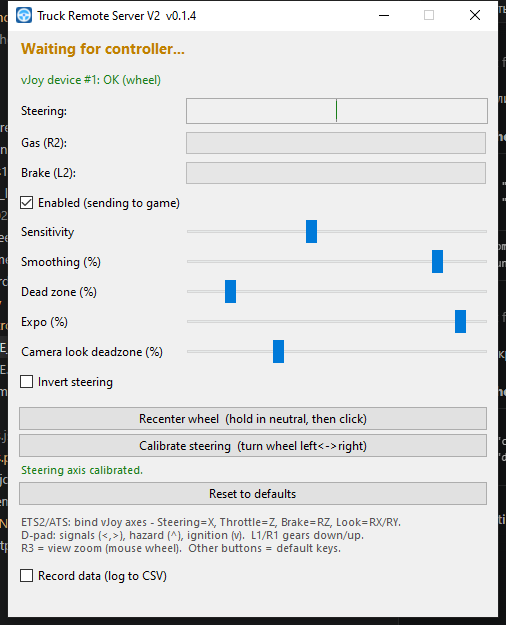
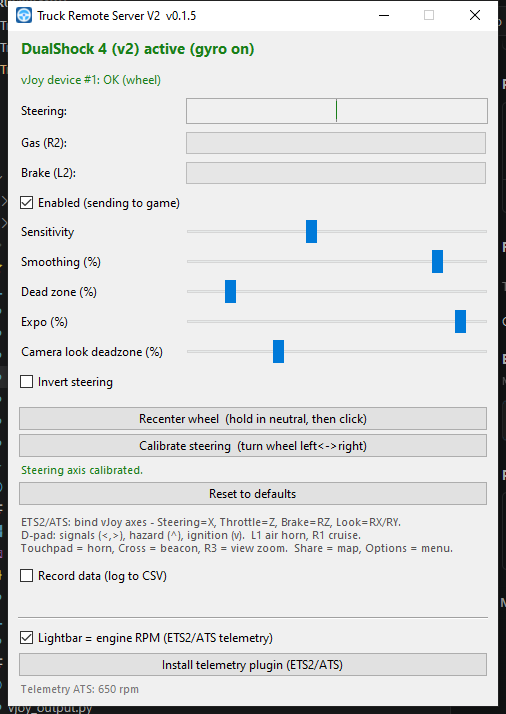
0.1.6: button remap, DS4 lightbar, surgical LED writes
- Reworked the keyboard mapping (no gear binding, no duplicates): touchpad press
  = horn, Cross = beacon, L1 = air horn, R1 = cruise, Share = map (M),
  Options = menu; D-pad signals/hazard/ignition; PS unmapped.
- DualShock 4 lightbar now follows engine RPM too (USB 0x05 / BT 0x11 + CRC32),
  alongside DualSense; UI label made generic.
- Lightbar output is now surgical (changes only the LED, leaves rumble/haptics
  untouched) and telemetry has a short hold so brief dropouts don't flash white.
  Known issue: lightbar can still blink to default on bumps while the game
  rumbles the pad (to be addressed later).
- Refreshed README (en/ru) + new screenshot.

diff --git a/dualsense_led.py b/dualsense_led.py
@@ -1,37 +1,71 @@
-"""DualSense lightbar control via a HID output report.
+"""DualSense / DualShock 4 lightbar control via a HID output report.
 
 The lightbar RGB is set by an output report sent on the same HID handle we read
-from. Over USB it's report 0x02; over Bluetooth it's report 0x31 with a trailing
-CRC32 (seeded with the 0xA2 BT output-report tag). Layout follows the common
-DualSense output report (as used by pydualsense / DS4Windows).
+from. Bluetooth reports carry a trailing CRC32 (seeded with the 0xA2 BT
+output-report tag). Layouts follow the common reports used by pydualsense /
+DS4Windows.
+
+  DualSense : USB 0x02 (RGB @ 45..47)   BT 0x31 (RGB @ 46..48, +CRC)
+  DualShock4: USB 0x05 (RGB @ 6..8)     BT 0x11 (RGB @ 8..10,  +CRC)
 """
 
 import struct
 import zlib
 
-_FLAG0 = 0xFF          # enable rumble/trigger fields (harmless, kept 0 below)
-_FLAG1 = 0xF7          # bit 0x04 = allow lightbar color change
+# Surgical flags: change ONLY the lightbar, leave rumble/haptics untouched so we
+# don't fight the game's force feedback (which otherwise made the lightbar blink
+# back to default on bumps).
+_DS_FLAG0 = 0x00       # DualSense: don't touch rumble/triggers
+_DS_FLAG1 = 0x04       # DualSense: 0x04 = allow lightbar color
+_DS4_FLAGS = 0x06      # DS4: 0x02 lightbar color | 0x04 flash (no rumble bit 0x01)
 
 
-def build_report(bt, r, g, b):
+def build_report(kind, bt, r, g, b):
+    if kind == "ds4":
+        return _ds4_report(bt, r, g, b)
+    return _dualsense_report(bt, r, g, b)
+
+
+def _crc_tail(buf):
+    crc = zlib.crc32(b"\xA2" + bytes(buf[0:74])) & 0xFFFFFFFF
+    struct.pack_into("<I", buf, 74, crc)
+
+
+def _dualsense_report(bt, r, g, b):
     r &= 0xFF; g &= 0xFF; b &= 0xFF
     if bt:
         buf = bytearray(78)
         buf[0] = 0x31
         buf[1] = 0x02          # sequence/tag
-        buf[2] = _FLAG0
-        buf[3] = _FLAG1
+        buf[2] = _DS_FLAG0
+        buf[3] = _DS_FLAG1
         buf[46] = r; buf[47] = g; buf[48] = b
-        crc = zlib.crc32(b"\xA2" + bytes(buf[0:74])) & 0xFFFFFFFF
-        struct.pack_into("<I", buf, 74, crc)
+        _crc_tail(buf)
         return bytes(buf)
-    else:
-        buf = bytearray(48)
-        buf[0] = 0x02
-        buf[1] = _FLAG0
-        buf[2] = _FLAG1
-        buf[45] = r; buf[46] = g; buf[47] = b
+    buf = bytearray(48)
+    buf[0] = 0x02
+    buf[1] = _DS_FLAG0
+    buf[2] = _DS_FLAG1
+    buf[45] = r; buf[46] = g; buf[47] = b
+    return bytes(buf)
+
+
+def _ds4_report(bt, r, g, b):
+    r &= 0xFF; g &= 0xFF; b &= 0xFF
+    if bt:
+        buf = bytearray(78)
+        buf[0] = 0x11
+        buf[1] = 0xC0          # HID + CRC, poll rate 0
+        buf[2] = 0xA0
+        buf[3] = _DS4_FLAGS
+        buf[8] = r; buf[9] = g; buf[10] = b
+        _crc_tail(buf)
         return bytes(buf)
+    buf = bytearray(32)
+    buf[0] = 0x05
+    buf[1] = _DS4_FLAGS
+    buf[6] = r; buf[7] = g; buf[8] = b
+    return bytes(buf)
 
 
 def rpm_to_rgb(rpm, rpm_max):

diff --git a/main.py b/main.py
@@ -13,7 +13,7 @@ from datetime import datetime
 import tkinter as tk
 from tkinter import ttk
 
-__version__ = "0.1.5"
+__version__ = "0.1.6"
 
 from settings import Settings
 from vjoy_output import VJoyController
@@ -24,8 +24,8 @@ import telemetry as telem
 import dualsense_led
 
 BUTTON_REF = ("ETS2/ATS: bind vJoy axes - Steering=X, Throttle=Z, Brake=RZ, Look=RX/RY.\n"
-              "D-pad: signals (<,>), hazard (^), ignition (v).  L1/R1 gears down/up.\n"
-              "R3 = view zoom (mouse wheel).  Other buttons = default keys.")
+              "D-pad: signals (<,>), hazard (^), ignition (v).  L1 air horn, R1 cruise.\n"
+              "Touchpad = horn, Cross = beacon, R3 = view zoom.  Share = map, Options = menu.")
 
 
 def resource_path(name):
@@ -51,6 +51,8 @@ class App:
         self.manager = GamepadManager(on_state=self._on_state, on_status=self._on_status)
         self.telemetry = telem.Telemetry()
         self._tele_text = ""
+        self._last_rpm_rgb = None
+        self._last_active_t = 0.0
 
         self._build_ui()
         self.manager.start()
@@ -165,7 +167,7 @@ class App:
         ttk.Separator(p, orient="horizontal").grid(row=19, column=0, columnspan=2,
                                                    sticky="we", padx=10, pady=4)
         self.var_led = tk.BooleanVar(value=self.settings.led_rpm_enabled)
-        ttk.Checkbutton(p, text="DualSense lightbar = engine RPM (ETS2/ATS telemetry)",
+        ttk.Checkbutton(p, text="Lightbar = engine RPM (ETS2/ATS telemetry)",
                         variable=self.var_led, command=self._on_led).grid(
             row=20, column=0, columnspan=2, sticky="w", **pad)
         ttk.Button(p, text="Install telemetry plugin (ETS2/ATS)",
@@ -218,12 +220,18 @@ class App:
         if not self.settings.led_rpm_enabled:
             self._tele_text = ""
             return
+        now = time.perf_counter()
         t = self.telemetry.read()
         if t and t["active"]:
-            self.manager.set_led(dualsense_led.rpm_to_rgb(t["rpm"], t["rpm_max"]))
+            rgb = dualsense_led.rpm_to_rgb(t["rpm"], t["rpm_max"])
+            self._last_rpm_rgb = rgb
+            self._last_active_t = now
+            self.manager.set_led(rgb)
             self._tele_text = "Telemetry %s: %d rpm" % (t["game"], int(t["rpm"]))
+        elif self._last_rpm_rgb is not None and (now - self._last_active_t) < 2.0:
+            self.manager.set_led(self._last_rpm_rgb)   # hold through brief dropouts
         else:
-            self.manager.set_led((255, 255, 255))   # white standby until game seen
+            self.manager.set_led((255, 255, 255))      # white standby until game seen
             self._tele_text = "Telemetry: waiting for game..."
 
     def _on_reset_defaults(self):

diff --git a/pc_controller.py b/pc_controller.py
@@ -10,18 +10,17 @@ import keyboard_emu as kb
 # slot -> action. ("key", <name>) sends a keyboard key; ("mouse", "middle")
 # clicks the middle mouse button (view zoom).
 BUTTON_ACTIONS = {
-    "cross": ("key", "H"),        # horn
+    "cross": ("key", "O"),        # beacon
     "circle": ("key", "K"),       # high beam
     "square": ("key", "Space"),   # parking / hand brake
     "triangle": ("key", "L"),     # lights cycle
-    "l1": ("key", "G"),           # gear down  (manual shift)
-    "r1": ("key", "R"),           # gear up    (manual shift)
+    "l1": ("key", "N"),           # air horn
+    "r1": ("key", "C"),           # cruise control
     "l3": ("key", "P"),           # wipers
     "r3": ("mouse", "middle"),    # view zoom (like clicking the mouse wheel)
-    "options": ("key", "C"),      # cruise control
-    "share": ("key", "N"),        # air horn
-    "ps": ("key", "Esc"),         # menu
-    "touchpad": ("key", "T"),     # attach/detach trailer
+    "options": ("key", "Esc"),    # game menu
+    "share": ("key", "M"),        # map
+    "touchpad": ("key", "H"),     # main horn (press the touchpad to honk)
     "dpad_left": ("key", "LBracket"),   # left turn signal  ([)
     "dpad_right": ("key", "RBracket"),  # right turn signal (])
     "dpad_up": ("key", "F"),          # hazard lights
@@ -29,7 +28,7 @@ BUTTON_ACTIONS = {
 }
 
 _PLAIN = ("cross", "circle", "square", "triangle", "l1", "r1",
-          "l3", "r3", "options", "share", "ps", "touchpad")
+          "l3", "r3", "options", "share", "touchpad")
 
 
 def _dpad_dirs(dpad):

diff --git a/hid_gamepad.py b/hid_gamepad.py
@@ -260,8 +260,8 @@ class GamepadManager:
                     continue
                 if not self.has_motion:
                     self._status("{} active (gyro on)".format(self.name), True, True)
-                if self.kind == "dualsense":
-                    self.bt = (data[0] == 0x31)
+                if self.kind in ("dualsense", "ds4"):
+                    self.bt = data[0] in (0x31, 0x11)   # DualSense/DS4 BT report
                     self._apply_led(dev)
                 if self.on_state:
                     self.on_state(st)
@@ -291,7 +291,7 @@ class GamepadManager:
             return
         try:
             import dualsense_led
-            report = bytearray(dualsense_led.build_report(self.bt, rgb[0], rgb[1], rgb[2]))
+            report = bytearray(dualsense_led.build_report(self.kind, self.bt, rgb[0], rgb[1], rgb[2]))
             if self._out_len and len(report) < self._out_len:   # Windows wants full length
                 report += bytes(self._out_len - len(report))
             dev.write(bytes(report))

diff --git a/keyboard_emu.py b/keyboard_emu.py
@@ -51,7 +51,7 @@ _SendInput.restype = wintypes.UINT
 DIK = {
     "1": 0x02, "2": 0x03, "3": 0x04, "4": 0x05, "5": 0x06,
     "E": 0x12, "R": 0x13, "T": 0x14, "G": 0x22, "P": 0x19, "O": 0x18,
-    "K": 0x25, "L": 0x26, "C": 0x2E, "N": 0x31, "H": 0x23, "F": 0x21,
+    "K": 0x25, "L": 0x26, "C": 0x2E, "N": 0x31, "H": 0x23, "F": 0x21, "M": 0x32,
     "Space": 0x39, "Esc": 0x01, "Enter": 0x1C,
     "Comma": 0x33, "Period": 0x34, "LBracket": 0x1A, "RBracket": 0x1B,
 }

diff --git a/README.md b/README.md
@@ -21,19 +21,19 @@ real **wheel** — full lock-to-lock at any speed, with no gamepad steering assi
 - R2 / L2 → **throttle / brake** (vJoy Z / RZ axes)
 - right stick → **camera look** (vJoy RX / RY axes)
 - buttons + d-pad → **default keyboard keys** + a mouse action (no in-game setup)
-- optional: **DualSense lightbar shows engine RPM** (green → yellow → red)
+- optional: **lightbar shows engine RPM** (green → yellow → red), DualSense & DS4
 
-## DualSense lightbar = engine RPM (optional)
+## Lightbar = engine RPM (optional)
 
-With the SCS telemetry plugin installed, the DualSense lightbar turns green at
-low revs, yellow in the mid band and red near the redline (white while waiting
-for the game). Set up once:
+With the SCS telemetry plugin installed, the **DualSense or DualShock 4** lightbar
+turns green at low revs, yellow in the mid band and red near the redline (white
+while waiting for the game). Set up once:
 
 1. Click **Install telemetry plugin (ETS2/ATS)** in the app (auto-detects the
    Steam installs and copies `scs-telemetry.dll` into each game).
 2. Start the game; on first launch **allow** the telemetry access prompt.
 3. Drive — the lightbar follows the RPM. Toggle it with
-   *DualSense lightbar = engine RPM*.
+   *Lightbar = engine RPM*.
 
 ## What you need
 
@@ -77,24 +77,24 @@ the game's default keyboard keys):
 
 | Control | Action | Sends |
 |---------|--------|-------|
+| Touchpad (press) | Horn | H |
+| Cross | Beacon | O |
+| Circle | High beam | K |
+| Square | Parking brake | Space |
+| Triangle | Lights cycle | L |
+| L1 | Air horn | N |
+| R1 | Cruise control | C |
+| L3 | Wipers | P |
+| R3 (stick click) | View zoom | middle mouse |
 | D-pad ← / → | Turn signals | `[` / `]` |
 | D-pad ↑ | Hazard lights | F |
 | D-pad ↓ | Engine start/stop | E |
-| L1 / R1 | Gear down / up | G / R \* |
-| R3 (stick click) | View zoom | middle mouse \* |
-| Square | Parking brake | Space |
-| Triangle | Lights cycle | L |
-| Circle | High beam | K |
-| Cross | Horn | H |
-| L3 | Wipers | P |
-| Options | Cruise control | C |
-| Share | Air horn | N |
-| Touchpad | Attach/detach trailer | T |
-| PS | Menu | Esc |
+| Share | Map | M \* |
+| Options | Game menu | Esc |
 
-\* Gears and zoom aren't default keyboard actions: enable a manual gearbox and
-bind **Shift gear up/down** to `R`/`G`, and make sure view zoom is on the middle
-mouse button (default in most setups). Any key above can be rebound in the game.
+\* Map: bind the game's *Map* action to `M` if it isn't already. View zoom uses
+the middle mouse button (default in most setups). Any key above can be rebound
+in the game.
 
 ## Steering tuning (in-app)
 